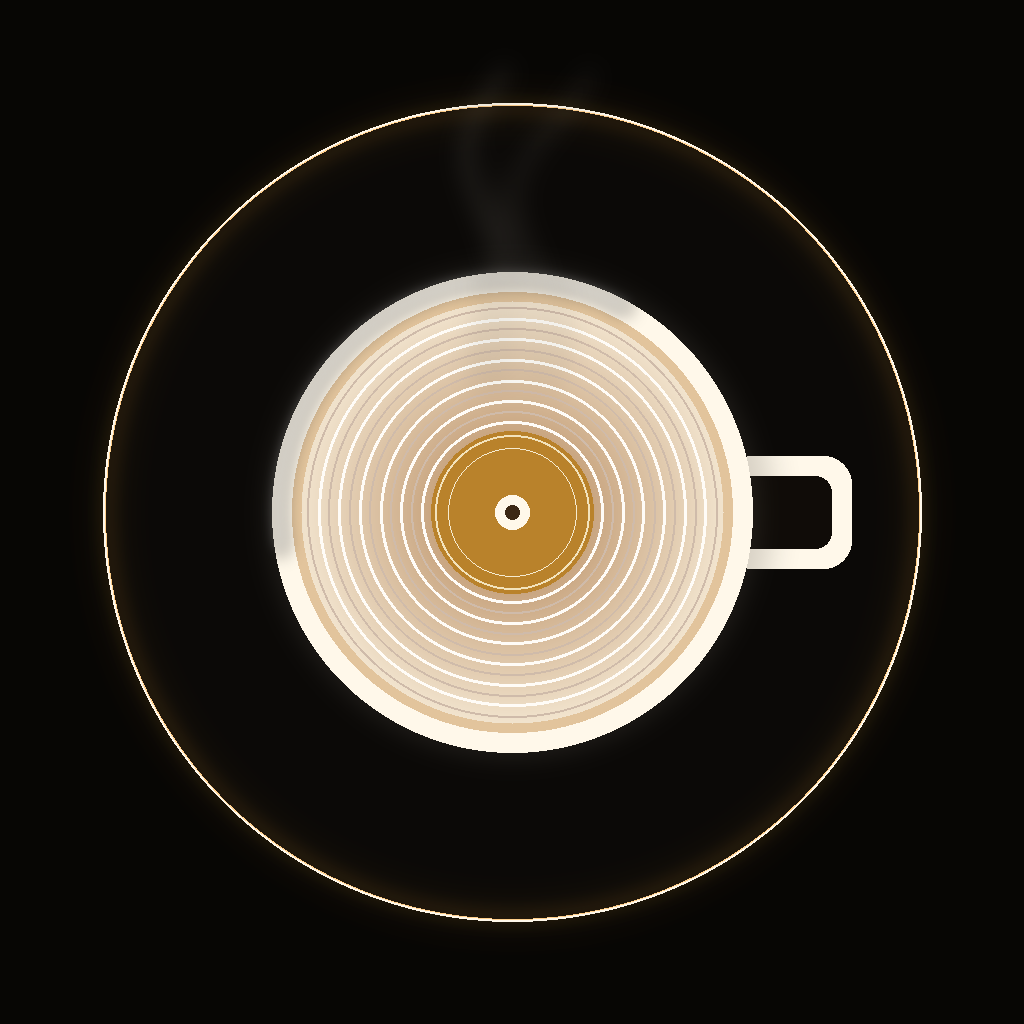
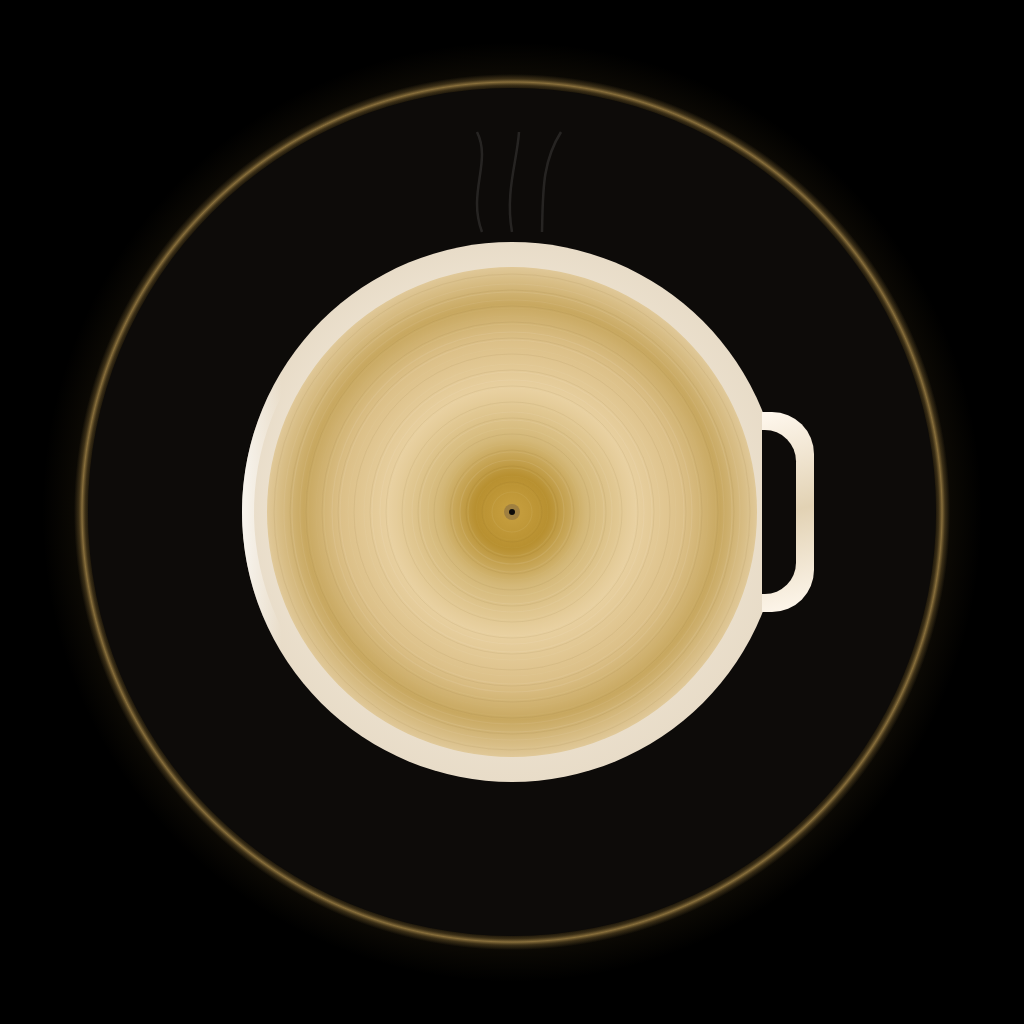
Add platform URLs, cover images, CNAME and refined cup handle
* Add CNAME for witkoffie.com custom domain

Claude-Session: https://claude.ai/code/session_01U8v2cfZWRAZc9WqDVqcgrE

* Add YouTube URLs for all released tracks

Links 7 tracks to their YouTube Music pages: Ver Van Jou,
Tussen Ons, Op My Vel, Ons Word Een, Lank Saam, Hart Klop,
and Afrikaanse Meisie (channel link). Dans Ritme remains
as coming-soon placeholder pending release.

Claude-Session: https://claude.ai/code/session_01U8v2cfZWRAZc9WqDVqcgrE

* Add Apple Music URLs for all released tracks

All 8 released singles now link to their Apple Music pages.
Spotify URLs still pending track-to-ID mapping from artist.

Claude-Session: https://claude.ai/code/session_01U8v2cfZWRAZc9WqDVqcgrE

* Rename uploaded covers to match releases.js filenames

Maps uploaded images to correct names:
- Cover - Ver Van Jou.jpg → ver-van-jou-cover.jpg
- Cover.jpg → afrikaanse-meisie-cover.jpg
- Generated Image... → dans-ritme-cover.jpg
- cover.jpg → lank-saam-cover.jpg
- Removes duplicate Cover_Warm _Asem.jpg (identical to existing)

Claude-Session: https://claude.ai/code/session_01U8v2cfZWRAZc9WqDVqcgrE

* Refine cup handle to smoother rounded D-shape

Increases corner radius from 0.065 to 0.18 to match the
rounded ear shape visible on the hero background cup.
Uses uniform wall thickness for the inner cutout.

Claude-Session: https://claude.ai/code/session_01U8v2cfZWRAZc9WqDVqcgrE

* Update witkoffie-mark.png with rounded cup handle

Regenerated the brand mark so the handle ear has smooth
[…]

Changed region(s): [[0.2188, 0.2188, 0.8438, 0.7812], [0.0625, 0.0625, 0.9375, 0.9375]]

diff --git a/js/releases.js b/js/releases.js
@@ -11,7 +11,7 @@ window.WK_RELEASES = [
     description: 'The first official WitKoffie release — warm breath, Afrikaans texture, deep bass and a groove built for modern speakers.',
     previewAudio: './assets/audio/warm-asem-preview.mp3',
     spotifyUrl: 'https://open.spotify.com/album/0Dbfg4zUArZwjRBXHvDnNX',
-    appleMusicUrl: 'https://music.apple.com/us/album/warm-asem/6776889709?i=6776889710',
+    appleMusicUrl: 'https://music.apple.com/us/album/warm-asem-single/6776889709',
     youtubeUrl: 'https://www.youtube.com/watch?v=_Av1F3RDteM&list=OLAK5uy_nx60Mm1mXUo3aCAJtBQuOETtSnzBfxdzA',
     distrokidUrl: '',
     featured: true
@@ -23,8 +23,8 @@ window.WK_RELEASES = [
     description: 'Distance and longing poured into warm bass and Afrikaans melody — a deep house letter home.',
     previewAudio: '',
     spotifyUrl: '#',
-    appleMusicUrl: '#',
-    youtubeUrl: '#',
+    appleMusicUrl: 'https://music.apple.com/us/album/ver-van-jou-single/6782656077',
+    youtubeUrl: 'https://www.youtube.com/watch?v=zr05J2wnM7E&list=OLAK5uy_mfExxbAkSIgebfZpuER0t0X1W0txW8N4Q',
     distrokidUrl: ''
   },
   {
@@ -35,8 +35,8 @@ window.WK_RELEASES = [
     description: 'Two voices reaching across the beat — intimate Afrikaans house built on connection and warmth.',
     previewAudio: '',
     spotifyUrl: '#',
-    appleMusicUrl: '#',
-    youtubeUrl: '#',
+    appleMusicUrl: 'https://music.apple.com/us/album/tussen-ons-single/6781419570',
+    youtubeUrl: 'https://www.youtube.com/watch?v=mA15-i9b19g&list=OLAK5uy_kzdQC1dMRu8nasTmFBXLoN7YkDo7Vmitk',
     distrokidUrl: ''
   },
   {
@@ -46,8 +46,8 @@ window.WK_RELEASES = [
     description: 'Under your skin. A festival-ready groove with driving energy and crowd momentum.',
     previewAudio: '',
     spotifyUrl: '#',
-    appleMusicUrl: '#',
-    youtubeUrl: '#',
+    appleMusicUrl: 'https://music.apple.com/us/album/op-my-vel-single/6787744183',
+    youtubeUrl: 'https://www.youtube.com/watch?v=hsf3ULHeW9U&list=OLAK5uy_mIPwl3mnuoNVPKmBwhK1DRrVnOoIHq_Tw',
     distrokidUrl: ''
   },
   {
@@ -57,8 +57,8 @@ window.WK_RELEASES = [
     description: 'We become one. A hypnotic AfriHuis anthem where rhythm and heritage merge into something new.',
     previewAudio: '',
     spotifyUrl: '#',
-    appleMusicUrl: '#',
-    youtubeUrl: '#',
+    appleMusicUrl: 'https://music.apple.com/us/album/ons-word-een-single/6778684292',
+    youtubeUrl: 'https://www.youtube.com/watch?v=75LOkjFzhV0&list=OLAK5uy_nkWLtq4AEvafzhU0eW2ToInFTomEFMuuU',
     distrokidUrl: ''
   },
   {
@@ -68,8 +68,8 @@ window.WK_RELEASES = [
     description: 'Together for the long run. Vinyl warmth, coffee-heart latte art and a groove that stays.',
     previewAudio: '',
     spotifyUrl: '#',
-    appleMusicUrl: '#',
-    youtubeUrl: '#',
+    appleMusicUrl: 'https://music.apple.com/us/album/lank-saam-single/6777885570',
+    youtubeUrl: 'https://www.youtube.com/watch?v=-tZcydus-FY&list=OLAK5uy_m4Qosf5XpCB_8DgNfaSnqnZ6ep83l4fVU',
     distrokidUrl: ''
   },
   {
@@ -79,8 +79,8 @@ window.WK_RELEASES = [
     description: 'Heartbeat. The pulse of espresso steam and a bassline that matches your heart rate.',
     previewAudio: '',
     spotifyUrl: '#',
-    appleMusicUrl: '#',
-    youtubeUrl: '#',
+    appleMusicUrl: 'https://music.apple.com/us/album/hart-klop-single/6786936627',
+    youtubeUrl: 'https://www.youtube.com/watch?v=heM_PBrWdAc&list=OLAK5uy_mO4MBqSWidW9GbHfguNzbHT6QloOxI67g',
     distrokidUrl: ''
   },
   {
@@ -91,8 +91,8 @@ window.WK_RELEASES = [
     description: 'Golden hour on the platteland — sunset decks, wheat fields and an Afrikaans girl in the distance.',
     previewAudio: '',
     spotifyUrl: '#',
-    appleMusicUrl: '#',
-    youtubeUrl: '#',
+    appleMusicUrl: 'https://music.apple.com/us/album/afrikaanse-meisie-single/6779954422',
+    youtubeUrl: 'https://www.youtube.com/channel/UC-DKs3u8TDkdm8kb-ivBdnA',
     distrokidUrl: ''
   },
   {

diff --git a/js/portal.js b/js/portal.js
@@ -195,8 +195,8 @@
   rimHighlight.position.z = 0.22;
   portal.add(rimHighlight);
 
-  // Handle ("ear") — rectangular D-shape matching the hero cup
-  var hW = 0.42, hH = 0.32, hR = 0.065;
+  // Handle ("ear") — rounded D-shape matching the hero cup
+  var hW = 0.40, hH = 0.30, hR = 0.18;
   var hX = CUP_R + RIM_THICK * 0.35;
   var handleShape = new THREE.Shape();
   handleShape.moveTo(0, hH);
@@ -206,7 +206,9 @@
   handleShape.quadraticCurveTo(hW, -hH, hW - hR, -hH);
   handleShape.lineTo(0, -hH);
   // inner cutout
-  var cutW = hW - hR * 2.2, cutH = hH - hR * 2.2, cutR = hR * 0.6;
+  var wall = 0.07;
+  var cutW = hW - wall, cutH = hH - wall, cutR = hR - wall * 0.5;
+  if (cutR < 0.04) cutR = 0.04;
   var hole = new THREE.Path();
   hole.moveTo(0, cutH);
   hole.lineTo(cutW - cutR, cutH);
@@ -218,7 +220,7 @@
   handleShape.holes.push(hole);
   var handleGeo = new THREE.ExtrudeGeometry(handleShape, {
     depth: 0.08, bevelEnabled: true, bevelThickness: 0.02,
-    bevelSize: 0.02, bevelSegments: 3
+    bevelSize: 0.02, bevelSegments: 4
   });
   var handle = new THREE.Mesh(handleGeo, cupRimMat);
   handle.position.set(hX, 0, 0.12);